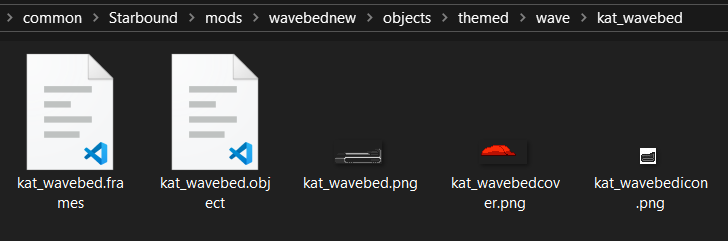
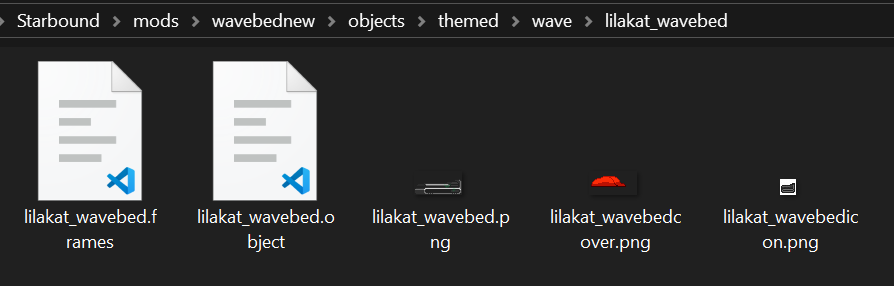
added how to create a new object

diff --git a/README.md b/README.md
@@ -1,4 +1,4 @@
-# How to Starbound mod (no coding experience required)
+# How to create mods for Starbound (no coding experience required)
 
 Open the location of the Starbound game files. If you use Steam, this is the easy way: Right click on Starbound and open properties. Click 'Installed Files' then 'Browse':
 
@@ -26,11 +26,13 @@ Click on it and it'll tell you where in the game files the object is located (ex
 
 ![Alt text](./4.png) 
 
-Remember the folder you created in the mods folder? Go there and create subfolders for the entire file path, starting from whatever comes after 'assets'. So in this case, create a folder called 'object' and in that, create another folder called 'themed', in that create *another* folder called 'wave', and in that create *yet another* folder called 'wavebed'. Congrats, you're done making folders for this project. Go into the final subfolder and copy the pngs you want to change. Use some kind of sorcery to change them and you're done. When you launch Starbound, they should look like the new images instead!
+Remember the folder you created in the mods folder? Go there and create subfolders for the entire file path, starting from whatever comes after 'assets'. So in this case, create a folder called 'object' and in that, create another folder called 'themed', in that create *another* folder called 'wave', and in that create *yet another* folder called 'wavebed'. ~~Congrats, you're done making folders for this project.~~ Go into the final subfolder and copy in the pngs you want to change. Use some kind of sorcery to edit them and you're done. When you launch Starbound, they should look like the new images instead!
+
+---
 
 Now, generally you shouldn't do what I just explained, especially if you want to share your mod with others. Instead, you should just create your own version of the object to change (it's not much harder, I promise). 
 
-To create your own version of this bed, rename the 'wavebed' folder to something else, I'll use 'kat_wavebed'. Copy everything from 'UnpackedAssets/objects/themed/wave/wavebed' into 'kat_wavebed', and change every reference to 'wavebed' in all the filenames to 'kat_wavebed'. Now open kat_wavebed.object and change every reference to 'wavebed' into 'kat_wavebed' (using find and replace in VScode works great if you don't want to do it manually and worry about forgetting a reference!). You can also change the descriptions and anything else you want.
+To create your own version of this bed, rename the 'wavebed' folder to something else that doesn't exist already, I'll use 'lilakat_wavebed'. It's good to use a prefix like 'lilakat_' on your mods so they don't conflict with other people's. Copy everything from 'UnpackedAssets/objects/themed/wave/wavebed' into 'lilakat_wavebed', and change every reference to 'wavebed' in all the filenames to 'lilakat_wavebed'. Now open lilakat_wavebed.object and change every reference to 'wavebed' into 'lilakat_wavebed' (using find and replace in VScode works great if you don't want to do it manually and worry about forgetting a reference!). You can also change the descriptions and anything else you want.
 
 To recap, your mod folder should look like this now: 
 
@@ -40,7 +42,7 @@ and your .object file should look like this:
 
 ![Alt text](./6.png) 
 
-In game you can now spawn your new object by opening the console and typing '/spawnitem kat_wavebed 1'.
+In game you can now spawn your new object by opening the console and typing '/spawnitem lilakat_wavebed 1'.
 
 
 # Uploading to Steam
